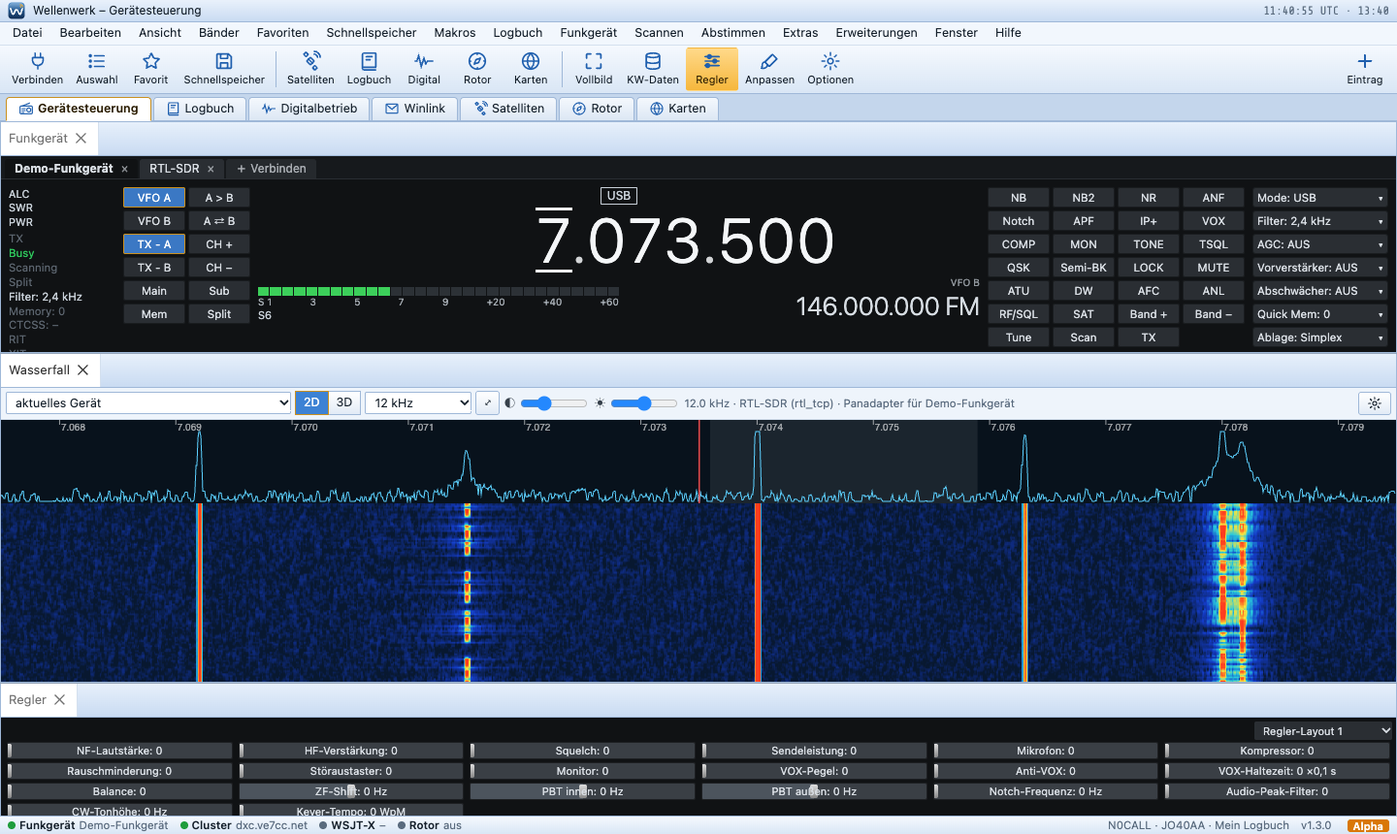
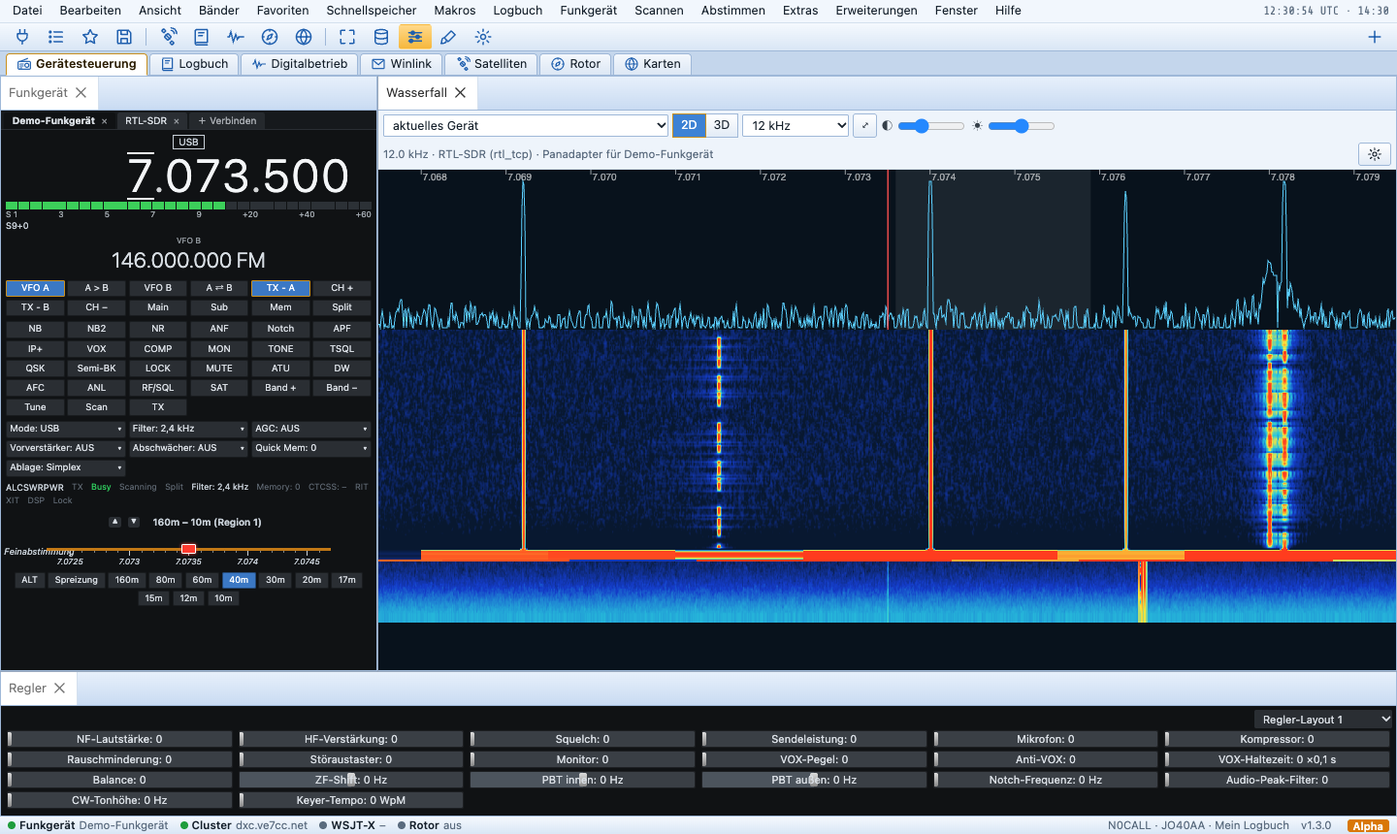
Responsive Darstellung: kompakte Kopfzeilen, Leisten nur mit Symbolen, Geraeteanzeige passt sich an, Seitenansicht neben dem Wasserfall (wie SDR-Console), Groesse der Oberflaeche bis 4K
- fitZoom: Geraeteanzeige/Makros verkleinern statt scrollen; fitBar: Werkzeugleisten nur Symbole, wenn zu eng
- ww-compact/ww-tight je nach Bildschirm; Uhr skaliert mit dem Fenster; Verbinden-Dialog zweispaltig, Knopfzeile bleibt sichtbar
- Wasserfall oeffnen legt die Geraeteanzeige schmal links daneben, Schliessen stellt die Anordnung wieder her (wf.side)
- Oberflaechengroesse automatisch/80-200 % (CSS-Zoom), Menues und Karten an der richtigen Position
- Anleitung DE/EN und Bilder

Claude-Session: https://claude.ai/code/session_017n9uLddWcii3wRCcwvWadf

diff --git a/static/js/core.js b/static/js/core.js
@@ -252,10 +252,13 @@ async function refreshState() {
   WW.emit("state"); WW.emit("rig", WW.rig); WW.emit("rotor", WW.rotor); WW.emit("cluster", WW.cluster); WW.emit("spots"); WW.emit("cluster-info", WW.clusterInfo);
 }
 
+// Vergroesserung der Oberflaeche (CSS-Zoom am <html>): Mauskoordinaten und Fenstergroesse fuer position: fixed umrechnen
+const uiZ = () => +document.documentElement.style.zoom || 1;
 // ---------- Rechtsklick-Menues ----------
 // items: { label, act, icon?, check?: bool|fn, disabled?: bool, sub?: items } | "-" (Trennlinie) | "Text" (Ueberschrift)
 function ctxMenu(e, items) {
   e.preventDefault(); e.stopPropagation(); ctxClose();
+  const Z = uiZ(), VW = innerWidth / Z, VH = innerHeight / Z;
   const build = (list, x, y, level, leftEdge = 0) => {
     const m = document.createElement("div"); m.className = "ctxmenu"; m.dataset.level = level;
     list.forEach((it, i) => {
@@ -266,17 +269,17 @@ function ctxMenu(e, items) {
       b.innerHTML = `<span class="ck">${chk ? "✓" : ""}</span>${it.icon ? icon(it.icon) : '<span class="ic"></span>'}<span class="lb">${esc(it.label)}</span>${it.key ? `<kbd>${esc(it.key)}</kbd>` : ""}${it.sub ? '<span class="arr">▸</span>' : ""}`;
       if (it.disabled) b.disabled = true;
       b.addEventListener("mouseenter", () => { $$(`.ctxmenu`).forEach(x => { if (+x.dataset.level > level) x.remove(); });
-        if (it.sub && !it.disabled) { const r = b.getBoundingClientRect(); build(it.sub, r.right - 2, r.top - 4, level + 1, r.left); } });
+        if (it.sub && !it.disabled) { const r = b.getBoundingClientRect(); build(it.sub, r.right / Z - 2, r.top / Z - 4, level + 1, r.left / Z); } });
       b.addEventListener("click", ev => { ev.stopPropagation(); if (it.sub || it.disabled) return; ctxClose(); try { const r = it.act && it.act(); if (r && r.catch) r.catch(err => toast(err.message, true)); } catch (err) { toast(err.message, true); } });
       m.appendChild(b);
     });
     document.body.appendChild(m);
     const w = m.offsetWidth, hgt = m.offsetHeight;
-    m.style.left = Math.max(4, x + w > innerWidth - 4 ? (level ? leftEdge - w + 2 : innerWidth - w - 4) : x) + "px";
-    m.style.top = Math.max(4, Math.min(y, innerHeight - hgt - 4)) + "px";
+    m.style.left = Math.max(4, x + w > VW - 4 ? (level ? leftEdge - w + 2 : VW - w - 4) : x) + "px";
+    m.style.top = Math.max(4, Math.min(y, VH - hgt - 4)) + "px";
     return m;
   };
-  build(items, e.clientX, e.clientY, 0);
+  build(items, e.clientX / Z, e.clientY / Z, 0);
 }
 function ctxClose() { $$(".ctxmenu").forEach(m => m.remove()); }
 document.addEventListener("mousedown", e => { if (!e.target.closest(".ctxmenu")) ctxClose(); });
@@ -329,3 +332,45 @@ function modeTable() {
 }
 function rstFor(mode) { const t = modeTable(), m = (mode || "").toUpperCase(); return m in t ? t[m] : (["CW", "RTTY", "PSK31"].includes(m) ? "599" : "59"); }
 function wsSend(m) { if (WW.ws && WW.ws.readyState === 1) WW.ws.send(JSON.stringify(m)); }
+
+// ---------- Anpassung an die Bildschirmgroesse ----------
+// Inhalt eines Fensters verkleinern (CSS-Zoom), wenn er nicht hineinpasst – statt Scrollbalken (z. B. Geraeteanzeige auf dem Laptop)
+// shrink: Bereiche, die selbst scrollen und dafuer schrumpfen duerfen (werden beim Messen auf shrinkPx begrenzt)
+function fitZoom(box, el, min = 0.6, shrink = "", shrinkPx = 90) {
+  let raf = 0, self = false;
+  const run = () => { raf = 0; if (!box.isConnected) return; self = true; el.style.zoom = "";
+    const sh = shrink ? [...el.querySelectorAll(shrink)] : []; sh.forEach(x => { x.style.maxHeight = shrinkPx + "px"; });
+    const need = box.scrollHeight, have = box.clientHeight, needW = box.scrollWidth, haveW = box.clientWidth;
+    sh.forEach(x => { x.style.maxHeight = ""; });
+    const z = need && have && needW && haveW ? Math.max(min, Math.min(1, have / need, haveW / needW)) : 1;
+    el.style.zoom = z < 0.99 ? z.toFixed(3) : ""; el.classList.toggle("zoomed", z < 0.99);
+    const size = `${box.clientWidth}x${box.clientHeight}`; requestAnimationFrame(() => { self = false; if (size !== `${box.clientWidth}x${box.clientHeight}`) later(); }); };
+  const later = () => { if (!self && !raf) raf = requestAnimationFrame(run); };
+  const ro = new ResizeObserver(later); ro.observe(box); ro.observe(el); [...el.children].forEach(c => ro.observe(c));   // Inhalt waechst nachtraeglich
+  const off = WW.on("caps", later); later();
+  return () => { ro.disconnect(); off?.(); };
+}
+// Leisten mit beschrifteten Knoepfen: passt die Leiste nicht in eine Zeile, nur Symbole zeigen (Beschriftung als Tooltip)
+function fitBar(bar) {
+  const run = () => { if (!bar.isConnected) return; bar.querySelectorAll("button").forEach(b => { const s = b.querySelector(":scope > span"); if (s && !b.title) b.title = s.textContent; });
+    bar.classList.remove("tb-icons"); const bs = [...bar.querySelectorAll(":scope > button")];
+    const wraps = bs.length > 1 && bs[bs.length - 1].offsetTop > bs[0].offsetTop + 4;
+    if (wraps || bar.scrollWidth > bar.clientWidth + 2) bar.classList.add("tb-icons"); };
+  let raf = 0; const ro = new ResizeObserver(() => { if (!raf) raf = requestAnimationFrame(() => { raf = 0; run(); }); }); ro.observe(bar); run();
+  bar._fitRun = run; return () => ro.disconnect();
+}
+// Groesse der Oberflaeche: automatisch auf sehr grossen Bildschirmen ohne Systemskalierung (2560/4K bei 100 %) vergroessern
+function wwScale() {
+  let v = (store.get("opts", {}) || {}).uiscale || "auto";
+  if (v === "auto") { const w = Math.max(innerWidth, screen.width || 0); v = devicePixelRatio < 1.5 && w >= 2400 ? Math.max(1, Math.min(2, Math.floor(innerWidth / 1920 / 0.25) * 0.25)) : 1; }
+  return Math.max(0.5, Math.min(3, +v || 1));
+}
+function wwFit() {
+  const de = document.documentElement, sc = wwScale();
+  de.style.zoom = sc !== 1 ? String(sc) : "";
+  const h = innerHeight / sc, w = innerWidth / sc;
+  de.classList.toggle("ww-compact", h < 900 || w < 1280);
+  de.classList.toggle("ww-tight", h < 700);
+}
+addEventListener("resize", () => { cancelAnimationFrame(wwFit.r); wwFit.r = requestAnimationFrame(wwFit); });
+wwFit();

diff --git a/static/js/shell.js b/static/js/shell.js
@@ -61,6 +61,7 @@ function renderToolbar(app) {
   tb.querySelectorAll("button[data-i]").forEach(b => b.addEventListener("click", () => { const t = app.toolbar[+b.dataset.i]; t.act && t.act(); refreshToolbar(); }));
   (app.toolbar || []).forEach((t, i) => { if (t.init) t.init(tb.querySelector(`[data-i="${i}"]`)); });
   refreshToolbar();
+  tb._fitRun ? tb._fitRun() : fitBar(tb);
 }
 function refreshToolbar() {
   const app = APPS[SHELL.active]; if (!app) return;
@@ -80,8 +81,11 @@ function addPanel(appId, comp, opts = {}) {
     const ref = def.dock.ref && [].concat(def.dock.ref).map(r => dv.getPanel(r)).find(Boolean);
     position = ref ? { referencePanel: ref.id, direction: def.dock.dir || "within" } : def.dock.dir && def.dock.dir !== "within" ? { direction: def.dock.dir } : undefined;
   }
+  const side = appId === "rig" && comp === "waterfall" && !opts.floating && typeof wfSideBefore === "function" && wfSideBefore(dv);
   const p = dv.addPanel({ id, component: comp, title: opts.title || def.title, params: opts.params || {}, position, floating: opts.floating });
-  if (def.size && !opts.floating) setTimeout(() => { try { p.group.api.setSize(def.size); } catch { } }, 30);
+  if (side) wfSideAfter(dv);
+  else if (def.size && !opts.floating) { const fix = () => { try { p.group.api.setSize(def.size); } catch { } };   // nach dem Aufbau, auch wenn der Start langsam ist
+    setTimeout(fix, 30); setTimeout(fix, 400); }
   return p;
 }
 function togglePanel(appId, comp) {
@@ -118,7 +122,7 @@ function createWorkspace(appId) {
   if (saved) { try { dv.fromJSON(saved); ok = dv.panels.length > 0; fixTitles(appId, dv); } catch (e) { console.warn("Layout", e); } }
   if (!ok) { dv.clear(); app.layout(dv); }
   let t; dv.onDidLayoutChange(() => { clearTimeout(t); t = setTimeout(() => { try { store.set(`layout.${appId}`, dv.toJSON()); } catch { } refreshToolbar(); refreshMenuChecks(); }, 400); });
-  dv.onDidRemovePanel(() => { refreshToolbar(); refreshMenuChecks(); });
+  dv.onDidRemovePanel(p => { refreshToolbar(); refreshMenuChecks(); if (appId === "rig" && p.id === "waterfall" && typeof wfSideRestore === "function") setTimeout(() => wfSideRestore(dv), 0); });
   return el;
 }
 function resetLayout(appId = SHELL.active) {
@@ -310,6 +314,7 @@ function openOptions(tab = "station") {
       <label>Farben<select name="wf_palette" data-local data-wf>${[["klassisch", "Klassisch"], ["feuer", "Feuer"], ["meer", "Meer"], ["grau", "Grau"], ["nacht", "Nachtsicht (rot)"]].map(([k, l]) => `<option value="${k}" ${w.palette === k ? "selected" : ""}>${l}</option>`).join("")}</select></label>
       <label class="chkrow"><input type="checkbox" name="wf_auto" data-local data-wf ${w.auto ? "checked" : ""}> Pegel automatisch anpassen</label>
       <label>Pegel unten (0–1, ohne Automatik)<input type="number" step="0.05" min="0" max="1" name="wf_lo" data-local data-wf value="${w.lo}"></label><label>Pegel oben<input type="number" step="0.05" min="0" max="1" name="wf_hi" data-local data-wf value="${w.hi}"></label>
+      <label class="chkrow wide"><input type="checkbox" name="wf_side" data-local data-wf ${w.side !== false ? "checked" : ""}> Geräteanzeige beim Öffnen des Wasserfalls schmal daneben legen (wie SDR-Console), beim Schließen zurück</label>
       <label>Laufgeschwindigkeit<select name="wf_pps" data-local data-wf>${[[10, "langsam"], [25, "normal"], [50, "schnell"], [100, "sehr schnell"]].map(([v, l]) => `<option value="${v}" ${+w.pps === v ? "selected" : ""}>${l}</option>`).join("")}</select></label>
       <label>SDR als Panadapter für Funkgeräte ohne Scope<select name="pan_sdr"><option value="auto" ${(s.pan_sdr || "auto") === "auto" ? "selected" : ""}>automatisch (erstes verbundenes SDR)</option><option value="off" ${s.pan_sdr === "off" ? "selected" : ""}>aus</option>${(WW.radios || []).filter(r => r.kind === "sdr").map(r => `<option value="${esc(r.id)}" ${s.pan_sdr === r.id ? "selected" : ""}>${esc(r.name)}</option>`).join("")}</select></label>
       <label>3D: Tiefe (Zeilen, nach Neuöffnen)<input type="number" min="40" max="400" name="wf_depth" data-local data-wf value="${w.depth}"></label>
@@ -348,6 +353,7 @@ function openOptions(tab = "station") {
       <p class="hint wide">Gleicht die S-Meter-Anzeige an das Gerät an. Angezeigt wird Faktor × Messwert + Versatz.</p></div></div>
     <div class="dtab ${tab === "theme" ? "" : "hidden"}" data-t="theme"><div class="grid2">
       <label>Fensterdesign<select name="o_chrome" data-local>${[["office", "Klassisch (hellblau)"], ["light", "Hell"], ["dark", "Dunkel"], ["night", "Nachtsicht (rot)"]].map(([k, l]) => `<option value="${k}" ${(o.chrome || "office") === k ? "selected" : ""}>${l}</option>`).join("")}</select></label>
+      <label>Größe der Oberfläche<select name="o_uiscale" data-local>${[["auto", "automatisch (große Bildschirme bis 4K vergrößern)"], ["0.8", "80 %"], ["0.9", "90 %"], ["1", "100 %"], ["1.1", "110 %"], ["1.25", "125 %"], ["1.5", "150 %"], ["1.75", "175 %"], ["2", "200 %"]].map(([k, l]) => `<option value="${k}" ${String(o.uiscale || "auto") === k ? "selected" : ""}>${l}</option>`).join("")}</select></label>
       <label>Sprache / Language<select name="lang" translate="no">${Object.entries(I18N.languages).map(([k, l]) => `<option value="${k}" ${I18N.lang === k ? "selected" : ""}>${l}</option>`).join("")}</select></label>
       <p class="hint wide">Farben der Funkgeräte-Anzeige stellst du unter „Layout anpassen“ (Strg+F8) ein.</p></div></div>
     <div class="err"></div>`, onOpen: dd => {
@@ -388,4 +394,4 @@ function openOptions(tab = "station") {
     catch (err) { d.querySelector(".err").textContent = err.message; }
   });
 }
-function applyChrome() { document.documentElement.dataset.chrome = store.get("opts", {}).chrome || "office"; }
+function applyChrome() { document.documentElement.dataset.chrome = store.get("opts", {}).chrome || "office"; wwFit(); }

diff --git a/static/style.css b/static/style.css
@@ -250,8 +250,8 @@ fieldset { border: 1px solid var(--line2); border-radius: 3px; margin: 0 0 6px; 
 .solar-grid { display: grid; grid-template-columns: 1fr 1fr; gap: 8px; flex: 1; padding: 4px; min-height: 0; } .solar-grid > div { display: flex; flex-direction: column; min-height: 0; } .solar-grid canvas, .cy, .hg, .am-cv { flex: 1; width: 100%; min-height: 120px; }
 .bm-wrap { flex: 1; min-height: 0; } .bm { width: 100%; height: 100%; cursor: pointer; }
 .bm-tabs { display: flex; flex-wrap: wrap; gap: 1px; padding: 2px; background: var(--panel2); border-top: 1px solid var(--line2); flex: none; } .bm-tabs button { font-size: 10.5px; padding: 0 5px; }
-.clk { height: 100%; background: #000; color: #fff; display: flex; flex-direction: column; align-items: center; justify-content: center; cursor: pointer; }
-.clk-t { font-family: "Share Tech Mono", monospace; font-size: clamp(24px, 9vw, 64px); font-weight: 700; } .clk-s { color: #999; font-size: 12px; }
+.clk { container-type: size; height: 100%; background: #000; color: #fff; display: flex; flex-direction: column; align-items: center; justify-content: center; cursor: pointer; }
+.clk-t { font-family: "Share Tech Mono", monospace; font-size: clamp(14px, min(18cqw, 42cqh), 110px); font-weight: 700; } .clk-s { color: #999; font-size: 12px; }
 canvas.dial { flex: 1; width: 100%; min-height: 140px; cursor: crosshair; }
 .awards, .qslpanel, .stats { padding: 8px; } .kpis, .stats { display: grid; grid-template-columns: repeat(auto-fit, minmax(140px, 1fr)); gap: 6px; margin-bottom: 8px; }
 .kpi { background: var(--panel2); border: 1px solid var(--line2); border-radius: 3px; padding: 6px 8px; } .kpi b { display: block; font-size: 24px; color: var(--accent); } .kpi small { font-size: 13px; color: var(--muted); } .kpi .cf { font-size: 11.5px; color: var(--ok); }
@@ -412,3 +412,47 @@ tr.now td { background: #c9efcf; } canvas.pol { margin: auto; display: block; }
 .wf-tb .wf-span { max-width: 110px; }
 .wf-tb .wf-sl { display: inline-flex; align-items: center; gap: 3px; font-size: 13px; opacity: .85; }
 .wf-tb .wf-sl input { width: 70px; }
+/* ---------- Anpassung an kleinere Bildschirme (Laptop): ww-compact / ww-tight setzt wwFit() ---------- */
+.ww-compact .titlebar { position: absolute; top: 0; right: 0; z-index: 5; background: none; border: 0; padding: 3px 8px; pointer-events: none; }
+.ww-compact .titlebar .logo, .ww-compact .titlebar #wintitle { display: none; }
+.ww-compact .menubar { padding-right: 190px; }
+.ww-compact .toolbar { min-height: 0; padding: 1px 6px; }
+.ww-compact .toolbar button { min-width: 0; padding: 2px 6px; }
+.ww-compact .toolbar button span, .tb-icons button > span { display: none; }
+.ww-compact .toolbar button .ic { width: 20px; height: 20px; }
+.ww-compact .apptabs { padding-top: 2px; } .ww-compact .apptabs button { padding: 2px 10px; }
+.tb-icons.lb-tb button { min-width: 30px; padding: 3px 5px; }
+.ww-tight .ww-dock { --dv-tabs-and-actions-container-height: 22px; --dv-tabs-and-actions-container-font-size: 11.5px; }
+.ww-tight .apptabs button { padding: 1px 9px; font-size: 12px; }
+.ww-tight .menubar > * { padding-top: 1px; padding-bottom: 1px; }
+.rc-fine, .rc-fine2, .rc-mainbars { overflow-x: clip; }
+/* Verbinden-Dialog: Felder zweispaltig, damit „Verbinden“ auch auf niedrigen Bildschirmen ohne Scrollen erreichbar ist */
+.cn-grid > div:first-child { display: grid; grid-template-columns: 1fr 1fr; gap: 0 10px; align-content: start; }
+.cn-grid > div:first-child > .cn-serial:not(.hidden), .cn-grid > div:first-child > .cn-net:not(.hidden) { display: contents; }
+.cn-grid > div:first-child > :is(fieldset, p, .ctl-row, .chkrow, .cn-tpl, input[type=hidden]), .cn-serial > :is(fieldset, input) { grid-column: 1 / -1; }
+.cn-serial > label, .cn-net > label, .cn-grid > div:first-child > label { margin-bottom: 4px; }
+@media (max-height: 760px) { .cn-status { height: 220px; } }
+@media (max-width: 800px) { .cn-grid > div:first-child { grid-template-columns: 1fr; } }
+.cn-grid > div:first-child > details { grid-column: 1 / -1; border: 1px solid var(--line2); border-radius: 3px; padding: 3px 8px; margin: 2px 0 6px; }
+.cn-off summary { cursor: pointer; color: var(--accent); font-weight: 600; font-size: 12px; } .cn-off[open] summary { margin-bottom: 4px; }
+.cn-serial fieldset { display: flex; flex-wrap: wrap; gap: 2px 18px; }
+.cn-serial fieldset legend { width: 100%; }
+.cn-actions { position: sticky; bottom: -1px; background: var(--panel); padding: 6px 0 2px; margin-top: 4px; border-top: 1px solid var(--line2); z-index: 1; }
+/* ---------- Geraeteanzeige schmal (z. B. als Seitenleiste neben dem Wasserfall, wie bei SDR-Console) ---------- */
+.pane-face { container: face / inline-size; }
+@container face (max-width: 700px) {
+  .rc-face { grid-template-columns: 1fr; grid-template-areas: "c" "l" "r" "d" "s"; gap: 6px; padding: 6px; }
+  .rc-center { grid-area: c; min-width: 0; }
+  .rc-left { grid-area: l; } .rc-right { grid-area: r; } .rc-drops { grid-area: d; }
+  .rc .rc-left, .rc .rc-right, .rc[data-size] .rc-left, .rc[data-size] .rc-right { grid-template-columns: repeat(auto-fill, minmax(62px, 1fr)); }
+  .rc-drops { grid-template-columns: repeat(auto-fill, minmax(140px, 1fr)); }
+  .rc-status { grid-area: s; display: flex; flex-wrap: wrap; gap: 0 10px; font-size: 10.5px; }
+  .rc-status br { display: none; }
+  .rc-freq { font-size: clamp(28px, 14.5cqw, 64px); }
+  .rc-under { flex-direction: column; align-items: stretch; gap: 4px; } .rc-smeter { width: 100%; min-width: 0; } .rc-sub { text-align: center; }
+  .rc-subf { font-size: clamp(16px, 7cqw, 26px); }
+  .rc-dateline .rc-date, .rc-dateline .rc-time { display: none; } .rc-dateline { justify-content: center; }
+  .rc-mainbars, .rc-fine2 { display: none; }
+  .rc-tuning { flex: none; }
+}
+@media (max-width: 1180px) { .ww-compact .titlebar { display: none; } .ww-compact .menubar { padding-right: 4px; } }

diff --git a/static/js/rig-panels.js b/static/js/rig-panels.js
@@ -254,15 +254,15 @@ async function openConnect(editId, tab) {
         <label>PTT über<select id="cn-ptt"><option value="RIG">CAT-Befehl (Funkgerät)</option><option value="DTR">DTR-Leitung</option><option value="RTS">RTS-Leitung</option><option value="CM108">CM108 (USB-Soundkarte)</option><option value="NONE">keine (VOX)</option></select></label>
         <input id="cn-pttdev" class="hidden" placeholder="Port für PTT (leer = gleicher Port)"></div>
       <div class="cn-net hidden"><label>Adresse (Host:Port)<input id="cn-host" placeholder="192.168.1.20:4532"></label></div>
-      <fieldset><legend>Frequenzversatz (Transverter, LNB, QO-100)</legend>
+      <details class="cn-off"><summary>Frequenzversatz (Transverter, LNB, QO-100)</summary>
         <div class="ctl-row"><label>RX-Versatz MHz<input id="cn-rxoff" placeholder="0" style="width:120px"></label><label>TX-Versatz MHz<input id="cn-txoff" placeholder="wie RX" style="width:120px"></label>
         <button type="button" data-off="qo100" title="LNB 9750 MHz, Aufwärtsumsetzer 432 → 2400 MHz">QO-100</button><button type="button" data-off="tv2m" title="28 MHz → 144 MHz">Transverter 2 m</button><button type="button" data-off="none">keiner</button></div>
-        <p class="hint">Angezeigt wird Gerätefrequenz + Versatz. Der TX-Versatz gilt für die Sendefrequenz im Split-Betrieb (VFO B), leer = wie RX. Beispiel QO-100: RX 9750 (LNB), TX 1968 (432 → 2400 MHz).</p></fieldset>
+        <p class="hint">Angezeigt wird Gerätefrequenz + Versatz. Der TX-Versatz gilt für die Sendefrequenz im Split-Betrieb (VFO B), leer = wie RX. Beispiel QO-100: RX 9750 (LNB), TX 1968 (432 → 2400 MHz).</p></details>
       <label>Weitere Hamlib-Einstellungen<input id="cn-conf" placeholder="z. B. post_write_delay=10, timeout=1000"></label>
       <label class="chkrow"><input type="checkbox" id="cn-auto"> Beim Start immer mit diesem Gerät verbinden</label>
       <label class="chkrow"><input type="checkbox" id="cn-scope"> Panadapter: Scope-Daten vom Gerät empfangen (Icom mit Spektrum, z. B. IC-7300/705/9700)</label>
       <label class="chkrow"><input type="checkbox" id="cn-share"> Für andere Rechner im Heimnetz freigeben (WSJT-X, N1MM, fldigi auf einem anderen PC)</label>
-      <div class="ctl-row"><button type="button" class="primary" id="cn-go">${icon("i-plug")} Verbinden</button><button type="button" id="cn-save">Nur speichern</button><button type="button" id="cn-det">Baudrate suchen</button></div>
+      <div class="ctl-row cn-actions"><button type="button" class="primary" id="cn-go">${icon("i-plug")} Verbinden</button><button type="button" id="cn-save">Nur speichern</button><button type="button" id="cn-det">Baudrate suchen</button></div>
     </div><div><b>Status</b><div class="cn-status" id="cn-st"></div></div></div></div>
     <div class="dtab hidden" data-t="preset"><table class="grid" id="cn-presets"></table></div>
     <div class="dtab hidden" data-t="sdr"><div class="sdr-pick"></div></div>
@@ -295,7 +295,7 @@ async function openConnect(editId, tab) {
     $("#cn-name", d).value = p.name || ""; if (p.device) { if (![...$("#cn-dev", d).options].some(o => o.value === p.device)) { $("#cn-dev", d).value = "__other"; $("#cn-dev2", d).value = p.device; $("#cn-dev2", d).classList.remove("hidden"); } else $("#cn-dev", d).value = p.device; }
     $("#cn-speed", d).value = p.speed || "auto"; $("#cn-civ", d).value = p.civaddr || ""; $("#cn-cts", d).checked = p.handshake === "hardware"; $("#cn-dtr", d).checked = p.dtr_state === "on"; $("#cn-rts", d).checked = p.rts_state === "on";
     $("#cn-ptt", d).value = p.ptt_type || "RIG"; $("#cn-pttdev", d).value = p.ptt_device || ""; $("#cn-host", d).value = p.host || ""; $("#cn-conf", d).value = p.conf || ""; $("#cn-auto", d).checked = !!p.autoconnect; $("#cn-share", d).checked = !!p.share; $("#cn-scope", d).checked = p.scope ?? /icom/i.test(p.mfg || "");
-    $("#cn-rxoff", d).value = p.rx_offset ? offMHz(p.rx_offset) : ""; $("#cn-txoff", d).value = offMHz(p.tx_offset ?? ""); };
+    $("#cn-rxoff", d).value = p.rx_offset ? offMHz(p.rx_offset) : ""; $("#cn-txoff", d).value = offMHz(p.tx_offset ?? ""); $(".cn-off", d).open = !!(p.rx_offset || p.tx_offset); };
   const TPL = {
     wfview: { mfg: "Hamlib", model: 2, name: "wfview Remote", host: "127.0.0.1:4533", hint: "In wfview: <i>Einstellungen → External Control → Enable RigCtld</i> (Port 4533). wfview verbindet sich selbst mit der entfernten Icom-Station (LAN/Internet) und stellt Gerät und Ton bereit; Wellenwerk steuert über diesen Port. Läuft wfview auf einem anderen Rechner, dessen Adresse eintragen. Ton: wfview-Audio als Soundkarte im Digitalbetrieb bzw. Fernbetrieb-Audio wählen." },
     flrig: { mfg: "FLRig", model: 4, name: "FLRig", host: "127.0.0.1:12345", hint: "FLRig muss laufen (XML-RPC, Standardport 12345)." },

diff --git a/static/js/waterfall.js b/static/js/waterfall.js
@@ -8,7 +8,7 @@ const WF_PALETTES = {
   meer: [[0, 5, 10, 40], [0.4, 0, 90, 140], [0.7, 60, 200, 170], [1, 230, 255, 200]],
   nacht: [[0, 0, 0, 0], [0.5, 120, 0, 0], [1, 255, 90, 60]],
 };
-function wfOpts() { return Object.assign({ palette: "klassisch", auto: true, lo: 0.15, hi: 0.95, depth: 160, speed: 1, pps: 25, height: 1, sig: true, sigsecs: 15 }, store.get("opts", {}).wf || {}); }
+function wfOpts() { return Object.assign({ palette: "klassisch", auto: true, lo: 0.15, hi: 0.95, depth: 160, speed: 1, pps: 25, height: 1, sig: true, sigsecs: 15, side: true }, store.get("opts", {}).wf || {}); }
 function wfLut(name) { const st = WF_PALETTES[name] || WF_PALETTES.klassisch, lut = new Uint8Array(256 * 4);
   for (let i = 0; i < 256; i++) { const v = i / 255; let k = 1; while (k < st.length - 1 && v > st[k][0]) k++; const a = st[k - 1], b = st[k], t = Math.max(0, Math.min(1, (v - a[0]) / ((b[0] - a[0]) || 1)));
     for (let c = 0; c < 3; c++) lut[i * 4 + c] = Math.round(a[c + 1] + (b[c + 1] - a[c + 1]) * t); lut[i * 4 + 3] = 255; } return lut; }
@@ -168,6 +168,26 @@ function createWfPanel(root) {
     if (g3) { gl.activeTexture(gl.TEXTURE1); gl.bindTexture(gl.TEXTURE_2D, g3.tp); gl.texImage2D(gl.TEXTURE_2D, 0, gl.RGBA, 256, 1, 0, gl.RGBA, gl.UNSIGNED_BYTE, lut); } })];
   const ro = new ResizeObserver(() => { if (st.mode === "3d") render3d(); }); ro.observe(root);
   return () => { offs.forEach(f => f()); ro.disconnect(); };
+}
+// Geraeteanzeige neben den Wasserfall (wie SDR-Console): beim Oeffnen des Wasserfalls wandert sie schmal nach links,
+// beim Schliessen kommt die vorherige Anordnung zurueck (gespeichert in wf.preLayout).
+function wfSideBefore(dv) {
+  if (wfOpts().side === false || !dv.getPanel("face") || dv.getPanel("waterfall")) return false;
+  store.set("wf.preLayout", dv.toJSON()); wfSideBefore.h = dv.getPanel("face").group.api.height; return true;
+}
+function wfSideAfter(dv) {
+  const face = dv.getPanel("face"), wf = dv.getPanel("waterfall"); if (!face || !wf) return;
+  try { face.api.moveTo({ group: wf.group, position: "left" }); } catch (e) { console.warn("Seitenansicht", e); return; }
+  setTimeout(() => { try { face.group.api.setSize({ width: Math.round(Math.max(300, Math.min(440, innerWidth * 0.27))) });
+    if (wfSideBefore.h) wf.group.api.setSize({ height: wfSideBefore.h }); wf.api.setActive(); } catch { } }, 30);
+}
+function wfSideRestore(dv) {
+  const pre = store.get("wf.preLayout", null); if (!pre) return; store.set("wf.preLayout", null);
+  if (!dv.getPanel("face") || wfOpts().side === false) return;
+  const ids = o => Object.keys(o?.panels || {}).sort().join(), now = dv.toJSON();
+  if (ids(pre) === ids(now)) { try { dv.fromJSON(pre); fixTitles("rig", dv); return; } catch (e) { console.warn(e); } }
+  // In der Zwischenzeit wurden Fenster geoeffnet/geschlossen: Geraeteanzeige nur wieder oben ueber die volle Breite legen
+  try { const face = dv.getPanel("face"); face.api.moveTo({ position: "top" }); } catch { }
 }
 const WF_SPANS = [3000, 6000, 12000, 24000, 48000, 96000, 192000, 384000, 768000, 1536000];
 // SDR, das als Panadapter dem aktuellen Funkgeraet folgt (gleiche Regel wie der Server: pan_sdr_id)

diff --git a/static/js/rig-face.js b/static/js/rig-face.js
@@ -109,6 +109,7 @@ function createFace(root) {
   </div>`;
   const rc = $(".rc", root);
   applyScheme(rc);
+  const unfit = fitZoom(root, rc, 0.8, ".rc-mainbars", 60);                      // kleine Bildschirme: Anzeige verkleinern statt scrollen
   // Frequenz: Mausrad / Klick oben-unten / Tastatur
   const fr = $(".rc-freq", rc);
   fr.addEventListener("wheel", e => {
@@ -151,7 +152,7 @@ function createFace(root) {
   const ro = new ResizeObserver(() => renderBars(rc)); ro.observe(rc);
   if (!RC.layout) loadRigLayout(); else rebuild();
   renderTabs(rc);
-  return () => { offs.forEach(f => f()); clearInterval(clk); ro.disconnect(); };
+  return () => { offs.forEach(f => f()); clearInterval(clk); ro.disconnect(); unfit(); };
 }
 function renderTabs(rc) {
   const conn = WW.radios.filter(r => r.connected), cur = WW.radios.find(r => r.id === WW.current);
@@ -300,8 +301,9 @@ function popupMenu(anchor, items) {
   $$(".popmenu").forEach(p => p.remove());
   const m = h(`<div class="popmenu">${items.map((it, i) => `<button type="button" data-i="${i}" class="${it.on ? "on" : ""}">${it.on ? "✓ " : ""}${esc(it.label)}</button>`).join("") || '<div class="hint">keine Einträge</div>'}</div>`);
   document.body.appendChild(m);
-  const r = anchor.getBoundingClientRect(); m.style.left = Math.min(r.left, innerWidth - m.offsetWidth - 8) + "px";
-  m.style.top = (r.bottom + m.offsetHeight > innerHeight ? Math.max(4, r.top - m.offsetHeight) : r.bottom) + "px";
+  const Z = uiZ(), r0 = anchor.getBoundingClientRect(), r = { left: r0.left / Z, top: r0.top / Z, bottom: r0.bottom / Z }, VW = innerWidth / Z, VH = innerHeight / Z;
+  m.style.left = Math.min(r.left, VW - m.offsetWidth - 8) + "px";
+  m.style.top = (r.bottom + m.offsetHeight > VH ? Math.max(4, r.top - m.offsetHeight) : r.bottom) + "px";
   m.addEventListener("click", e => { const b = e.target.closest("[data-i]"); if (b) { m.remove(); items[+b.dataset.i].act(); } });
   setTimeout(() => document.addEventListener("click", function off(e) { if (!m.contains(e.target)) { m.remove(); document.removeEventListener("click", off); } }), 0);
 }

diff --git a/static/js/dmapp.js b/static/js/dmapp.js
@@ -208,10 +208,12 @@ function createDmTx(root) {
 }
 function createDmMacros(root) {
   const draw = () => { const ms = store.get("dm.macros", DM_MACROS_DEFAULT);
-    root.innerHTML = `<div class="dm-mac">${ms.map(([l, t], i) => `<button data-i="${i}" title="${esc(t)}">F${i + 1} ${esc(l)}</button>`).join("")}</div><div class="pane-tb"><button class="dm-med">Bearbeiten …</button><span class="hint">Platzhalter: &lt;CALL&gt; &lt;NAME&gt; &lt;RST&gt; &lt;MYCALL&gt; &lt;MYNAME&gt; &lt;MYQTH&gt; &lt;MYLOC&gt; …</span></div>`; };
-  root.addEventListener("click", e => { const b = e.target.closest("[data-i]"); if (b) dmTx(store.get("dm.macros", DM_MACROS_DEFAULT)[+b.dataset.i][1]); if (e.target.closest(".dm-med")) dmMacroEditor(draw); });
+    root.innerHTML = `<div class="fitw"><div class="dm-mac">${ms.map(([l, t], i) => `<button data-i="${i}" title="${esc(t)}">F${i + 1} ${esc(l)}</button>`).join("")}</div><div class="pane-tb"><button class="dm-med">Bearbeiten …</button><span class="hint">Platzhalter: &lt;CALL&gt; &lt;NAME&gt; &lt;RST&gt; &lt;MYCALL&gt; &lt;MYNAME&gt; &lt;MYQTH&gt; &lt;MYLOC&gt; …</span></div></div>`; };
+  root.addEventListener("click", e => { const b = e.target.closest("[data-i]"); if (b) dmTx(store.get("dm.macros", DM_MACROS_DEFAULT)[+b.dataset.i][1]); if (e.target.closest(".dm-med")) dmMacroEditor(() => { draw(); fit(); }); });
   const key = e => { if (SHELL.active !== "dm" || !/^F([1-9]|1[0-2])$/.test(e.key) || e.key === "F8" || e.key === "F11") return; const ms = store.get("dm.macros", DM_MACROS_DEFAULT), i = +e.key.slice(1) - 1; if (ms[i]) { e.preventDefault(); dmTx(ms[i][1]); } };
-  document.addEventListener("keydown", key); draw(); return () => document.removeEventListener("keydown", key);
+  document.addEventListener("keydown", key); draw();
+  let unfit = null; const fit = () => { unfit?.(); unfit = fitZoom(root, $(".fitw", root), 0.75); }; fit();
+  return () => { document.removeEventListener("keydown", key); unfit?.(); };
 }
 function dmMacroEditor(cb) {
   const ms = store.get("dm.macros", DM_MACROS_DEFAULT);

diff --git a/static/js/sigid-ui.js b/static/js/sigid-ui.js
@@ -87,13 +87,14 @@ function sigCard(o) {
   c.innerHTML = `<div class="sig-h">${icon("i-wave")}<b>Signalerkennung</b><span class="sig-f hint"></span><i class="grow"></i><button class="sig-x" title="Schließen">×</button></div>
     <div class="sig-bar"><i></i></div><div class="sig-body"><div class="hint">nehme auf …</div></div>`;
   document.body.appendChild(c);
-  const W = 340, x = Math.min(innerWidth - W - 8, Math.max(8, (o.x ?? innerWidth / 2) + 14)), y = Math.min(innerHeight - 200, Math.max(8, (o.y ?? 120) + 14));
+  const Z = uiZ(), VW = innerWidth / Z, VH = innerHeight / Z;
+  const W = 340, x = Math.min(VW - W - 8, Math.max(8, (o.x != null ? o.x / Z : VW / 2) + 14)), y = Math.min(VH - 200, Math.max(8, (o.y != null ? o.y / Z : 120) + 14));
   Object.assign(c.style, { left: x + "px", top: y + "px", width: W + "px" });
   $(".sig-f", c).textContent = o.rf ? fmtMHz(o.rf) + " MHz" : Math.round(o.fc) + " Hz";
   $(".sig-x", c).onclick = sigCancel;
   // verschiebbar am Kopf
-  $(".sig-h", c).addEventListener("pointerdown", e => { if (e.target.closest("button")) return; const sx = e.clientX - c.offsetLeft, sy = e.clientY - c.offsetTop;
-    const mv = ev => { c.style.left = (ev.clientX - sx) + "px"; c.style.top = (ev.clientY - sy) + "px"; }, up = () => { removeEventListener("pointermove", mv); removeEventListener("pointerup", up); };
+  $(".sig-h", c).addEventListener("pointerdown", e => { if (e.target.closest("button")) return; const sx = e.clientX / Z - c.offsetLeft, sy = e.clientY / Z - c.offsetTop;
+    const mv = ev => { c.style.left = (ev.clientX / Z - sx) + "px"; c.style.top = (ev.clientY / Z - sy) + "px"; }, up = () => { removeEventListener("pointermove", mv); removeEventListener("pointerup", up); };
     addEventListener("pointermove", mv); addEventListener("pointerup", up); });
   return c;
 }

diff --git a/static/js/programs-ui.js b/static/js/programs-ui.js
@@ -19,7 +19,7 @@ function prgRefInput(inp, prog) {
   const close = () => { box?.remove(); box = null; };
   inp.addEventListener("input", () => { clearTimeout(t); const q = inp.value.trim(); if (q.length < 2) return close();
     t = setTimeout(async () => { try { const r = await api(`/api/programs/refs?prog=${prog}&q=${encodeURIComponent(q.split(/[,\s]+/).pop())}`); close(); if (!r.refs.length) return;
-      box = document.createElement("div"); box.className = "prg-suggest"; const rc = inp.getBoundingClientRect(); box.style.left = rc.left + "px"; box.style.top = rc.bottom + 2 + "px"; box.style.minWidth = Math.max(rc.width, 320) + "px";
+      box = document.createElement("div"); box.className = "prg-suggest"; const Z = uiZ(), rc = inp.getBoundingClientRect(); box.style.left = rc.left / Z + "px"; box.style.top = rc.bottom / Z + 2 + "px"; box.style.minWidth = Math.max(rc.width / Z, 320) + "px";
       box.innerHTML = r.refs.map(x => `<button type="button" data-r="${esc(x.ref)}"><b>${esc(x.ref)}</b> ${esc(x.name)} <small>${esc(x.loc || "")}${x.active === false ? " · inaktiv" : ""}</small></button>`).join("");
       box.onmousedown = e => { const b = e.target.closest("[data-r]"); if (!b) return; e.preventDefault(); const parts = inp.value.split(/,\s*/); parts[parts.length - 1] = b.dataset.r; inp.value = parts.join(", "); inp.dispatchEvent(new Event("input", { bubbles: true })); inp.dispatchEvent(new Event("change", { bubbles: true })); close(); };
       document.body.appendChild(box); } catch { } }, 250); });

diff --git a/static/js/logapp.js b/static/js/logapp.js
@@ -29,6 +29,7 @@ function createLogbook(root, params) {
       <select class="lb-view" title="Gespeicherte Ansichten (Filter, Spalten, Sortierung)"></select></div>
     <div class="tablewrap lb-wrap"><table class="grid lb-grid"><thead></thead><tbody translate="no"></tbody></table></div>
     <div class="lb-foot"><span class="lb-info"></span><i class="grow"></i><span>${esc(name)}</span><span>SQLite</span><span class="lb-count"></span><span class="lb-selc"></span></div>`;
+  fitBar($(".lb-tb", root));
   const cols = () => store.get("log.cols", LOG_DEFAULT_COLS);
   const q = () => { const p = new URLSearchParams({ log: name, limit: 2000, q: $(".lb-q", root).value.trim(), band: $(".lb-band", root).value, mode: $(".lb-mode", root).value, qsl: $(".lb-qsl", root).value, date_from: $(".lb-from", root).value, date_to: $(".lb-to", root).value, cond: $(".lb-cond", root).value.trim() }); return p; };
   const VF = ["q", "band", "mode", "qsl", "from", "to", "cond"];

diff --git a/docs/Anleitung.md b/docs/Anleitung.md
@@ -78,7 +78,7 @@ Weitere Einstellungen:
 - **Für andere Rechner freigeben** – siehe unten.
 - **Frequenzversatz (Transverter, LNB, QO-100)** – siehe unten.
 
-**Frequenzversatz für Transverter und QO-100:** Im Feld **Frequenzversatz** werden ein RX- und ein TX-Versatz in MHz im Geräteprofil gespeichert. Wellenwerk zeigt dann überall die tatsächliche Frequenz an (Gerätefrequenz + Versatz) und rechnet beim Abstimmen zurück. Der **TX-Versatz** gilt für die Sendefrequenz im Split-Betrieb (VFO B); leer bedeutet „wie RX“. Der Knopf **QO-100** trägt RX 9750 MHz (LNB) und TX 1968 MHz (Aufwärtsumsetzer 432 → 2400 MHz) ein, **Transverter 2 m** je 116 MHz (28 → 144 MHz). Beispiel QO-100 mit Split: Empfang auf 10489,550 MHz (Gerät 739,550 MHz), Senden auf 2400,050 MHz (Gerät 432,050 MHz). Den LNB-Versatz bei Bedarf um die Ablage des eigenen LNB korrigieren (z. B. 9749,982). Programme, die das Gerät über die Freigabe mitbenutzen (WSJT-X …), sehen weiter die Gerätefrequenz.
+**Frequenzversatz für Transverter und QO-100:** Im aufklappbaren Bereich **Frequenzversatz** (bei eingetragenem Versatz automatisch offen) werden ein RX- und ein TX-Versatz in MHz im Geräteprofil gespeichert. Wellenwerk zeigt dann überall die tatsächliche Frequenz an (Gerätefrequenz + Versatz) und rechnet beim Abstimmen zurück. Der **TX-Versatz** gilt für die Sendefrequenz im Split-Betrieb (VFO B); leer bedeutet „wie RX“. Der Knopf **QO-100** trägt RX 9750 MHz (LNB) und TX 1968 MHz (Aufwärtsumsetzer 432 → 2400 MHz) ein, **Transverter 2 m** je 116 MHz (28 → 144 MHz). Beispiel QO-100 mit Split: Empfang auf 10489,550 MHz (Gerät 739,550 MHz), Senden auf 2400,050 MHz (Gerät 432,050 MHz). Den LNB-Versatz bei Bedarf um die Ablage des eigenen LNB korrigieren (z. B. 9749,982). Programme, die das Gerät über die Freigabe mitbenutzen (WSJT-X …), sehen weiter die Gerätefrequenz.
 
 ![Frequenzversatz im Verbinden-Dialog](bilder/25-frequenzversatz.png)
 
@@ -203,6 +203,12 @@ Für den Betrieb aus einem anderen Raum oder unterwegs: **Ansicht → Fernbetrie
 Das Audio läuft direkt zwischen den Rechnern (WebRTC, Opus); außerhalb des Heimnetzes in den Optionen (**Kommunikation**) einen STUN-Server eintragen.
 
 ## 5. Fenster anordnen und Layouts
+
+**Bildschirmgröße:** Wellenwerk passt sich der Auflösung an – vom Laptop (auch 4:3, ab etwa 1024 × 660 Bildpunkten im Browser) bis 4K:
+- Auf niedrigen oder schmalen Bildschirmen werden Kopfzeilen kompakter; Werkzeugleisten, die nicht in eine Zeile passen, zeigen nur Symbole (Beschriftung beim Darüberfahren).
+- Die Geräteanzeige verkleinert sich bei Bedarf, statt Scrollbalken zu zeigen; Klicks auf Skalen und Ziffern treffen weiterhin genau.
+- Wird der **Wasserfall** geöffnet, wandert die Geräteanzeige schmal an die linke Seite – Frequenz, S-Meter und Tasten untereinander, wie bei SDR-Console – und der Wasserfall bekommt die Breite. Beim Schließen des Wasserfalls springt die vorherige Anordnung zurück. Abschaltbar unter **F8 → Wasserfall**.
+- Auf sehr großen Bildschirmen ohne Systemskalierung (z. B. 4K bei 100 %) vergrößert Wellenwerk die Oberfläche automatisch; die Größe lässt sich unter **F8 → Darstellung → Größe der Oberfläche** auch fest einstellen (80–200 %).
 
 Jeder Bereich ist ein eigenes Fenster, das sich frei anordnen lässt:
 

diff --git a/docs/Manual.md b/docs/Manual.md
@@ -84,7 +84,7 @@ More settings:
 - **Share with other computers** – see below.
 - **Frequency offset (transverter, LNB, QO-100)** – see below.
 
-**Frequency offset for transverters and QO-100:** the **Frequency offset** box stores an RX and a TX offset in MHz in the radio profile. Wellenwerk then shows the real frequency everywhere (radio frequency + offset) and converts back when tuning. The **TX offset** applies to the transmit frequency in split operation (VFO B); empty means “same as RX”. The **QO-100** button enters RX 9750 MHz (LNB) and TX 1968 MHz (upconverter 432 → 2400 MHz), **Transverter 2 m** 116 MHz each (28 → 144 MHz). Example QO-100 with split: receive on 10489.550 MHz (radio 739.550 MHz), transmit on 2400.050 MHz (radio 432.050 MHz). Correct the LNB offset for your own LNB's drift if needed (e.g. 9749.982). Programs sharing the radio (WSJT-X …) still see the radio frequency.
+**Frequency offset for transverters and QO-100:** the collapsible **Frequency offset** section (opens automatically when an offset is set) stores an RX and a TX offset in MHz in the radio profile. Wellenwerk then shows the real frequency everywhere (radio frequency + offset) and converts back when tuning. The **TX offset** applies to the transmit frequency in split operation (VFO B); empty means “same as RX”. The **QO-100** button enters RX 9750 MHz (LNB) and TX 1968 MHz (upconverter 432 → 2400 MHz), **Transverter 2 m** 116 MHz each (28 → 144 MHz). Example QO-100 with split: receive on 10489.550 MHz (radio 739.550 MHz), transmit on 2400.050 MHz (radio 432.050 MHz). Correct the LNB offset for your own LNB's drift if needed (e.g. 9749.982). Programs sharing the radio (WSJT-X …) still see the radio frequency.
 
 ![Frequency offset in the Connect dialog](bilder/25-frequenzversatz.png)
 
@@ -209,6 +209,12 @@ For operating from another room or on the road: **View → Remote audio**.
 Audio runs directly between the computers (WebRTC, Opus); outside the home network enter a STUN server in the options (**Communication**).
 
 ## 5. Arranging windows and layouts
+
+**Screen size:** Wellenwerk adapts to the resolution – from laptops (also 4:3, from about 1024 × 660 pixels in the browser) up to 4K:
+- On low or narrow screens headers become more compact; toolbars that do not fit in one row show icons only (label on hover).
+- The radio display shrinks when needed instead of showing scroll bars; clicks on scales and digits still hit exactly.
+- When the **waterfall** is opened, the radio display moves to the left side as a narrow column – frequency, S-meter and buttons stacked, as in SDR-Console – and the waterfall gets the width. Closing the waterfall restores the previous arrangement. Can be switched off under **F8 → Waterfall**.
+- On very large screens without system scaling (e.g. 4K at 100 %) Wellenwerk enlarges the interface automatically; the size can also be set under **F8 → Appearance → Interface size** (80–200 %).
 
 Each area is its own window that can be arranged freely:
 
